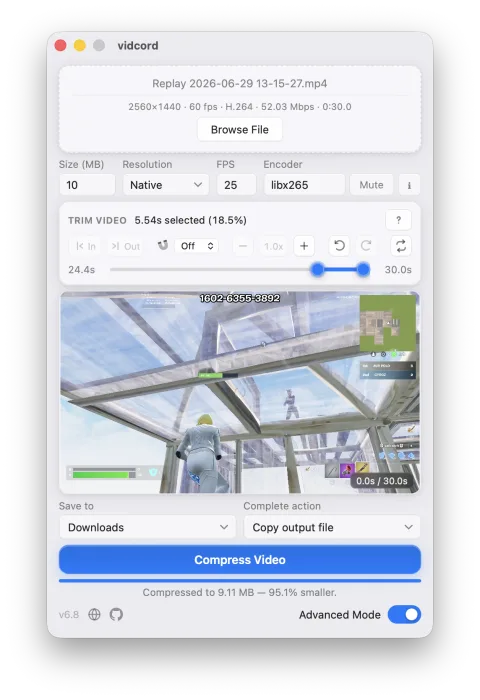
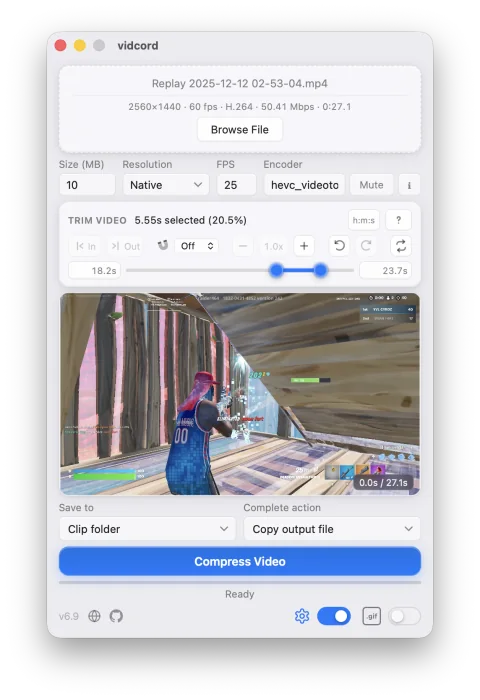
Refresh website screenshots and add GIF mode showcase

diff --git a/site/index.html b/site/index.html
@@ -106,6 +106,7 @@
             "image": [
               "https://vidcord.app/assets/window.png",
               "https://vidcord.app/assets/advancedmode.png",
+              "https://vidcord.app/assets/gifmode.png",
               "https://vidcord.app/assets/context.png",
               "https://vidcord.app/assets/finder.png",
               "https://vidcord.app/assets/file.png"
@@ -330,7 +331,7 @@
               <img
                 src="assets/window.png"
                 width="1144"
-                height="1484"
+                height="1668"
                 decoding="async"
                 alt="vidcord desktop app with video preview, trim timeline, preset picker, and compression controls"
               />
@@ -446,10 +447,50 @@
             <img
               src="assets/advancedmode.png"
               width="1144"
-              height="1484"
+              height="1668"
               loading="lazy"
               decoding="async"
               alt="vidcord advanced mode with target size, resolution, and encoder controls"
+            />
+          </picture>
+        </div>
+      </section>
+
+      <section class="detail-section detail-section-reverse" aria-label="GIF mode">
+        <div class="detail-copy">
+          <h2>Turn the best moment into a Discord-ready GIF.</h2>
+          <p>
+            GIF Mode swaps in focused controls for animated exports. Choose a Discord Free or Nitro
+            Basic size target and the motion quality you want, then let vidcord optimize the result
+            locally.
+          </p>
+          <ul>
+            <li>Focused 10 MB Free and 50 MB Nitro Basic targets.</li>
+            <li>Selectable 15, 30, or Discord-safe maximum 50 FPS output.</li>
+            <li>Automatic palette generation for cleaner color and motion.</li>
+            <li>Adaptive size retries that preserve your selected frame rate.</li>
+            <li>No audio track or unrelated video-only controls.</li>
+          </ul>
+        </div>
+        <div class="detail-image">
+          <picture>
+            <source
+              type="image/webp"
+              srcset="
+                assets/gifmode-480.webp   480w,
+                assets/gifmode-720.webp   720w,
+                assets/gifmode-960.webp   960w,
+                assets/gifmode-1144.webp 1144w
+              "
+              sizes="(max-width: 760px) calc(100vw - 36px), (max-width: 1040px) 560px, 500px"
+            />
+            <img
+              src="assets/gifmode.png"
+              width="1144"
+              height="1668"
+              loading="lazy"
+              decoding="async"
+              alt="vidcord GIF mode with Discord size targets, frame-rate control, trim timeline, and Create GIF button"
             />
           </picture>
         </div>

diff --git a/site/styles.css b/site/styles.css
@@ -712,6 +712,15 @@ main {
   height: auto;
 }
 
+.detail-section-reverse .detail-copy {
+  grid-column: 2;
+}
+
+.detail-section-reverse .detail-image {
+  grid-column: 1;
+  grid-row: 1;
+}
+
 .integration-section {
   padding-top: 46px;
   padding-bottom: 62px;
@@ -1175,6 +1184,12 @@ main {
 
   .detail-section {
     grid-template-columns: 1fr;
+  }
+
+  .detail-section-reverse .detail-copy,
+  .detail-section-reverse .detail-image {
+    grid-column: auto;
+    grid-row: auto;
   }
 
   .detail-image {

diff --git a/README.md b/README.md
@@ -169,15 +169,15 @@ first pass lands too large.
 ### Supported input formats
 
 MP4, MOV, MKV, AVI, WebM, FLV, WMV, and any other container / codec
-combination your system FFmpeg can demux. Output is always `.mp4` — H.264
-(AVC) by default, H.265 (HEVC) if you pick an `hevc_*` encoder in Advanced
-mode.
+combination your system FFmpeg can demux. Standard and Advanced mode output is
+`.mp4` — H.264 (AVC) by default or H.265 (HEVC) if you pick an `hevc_*`
+encoder. GIF Mode creates an animated `.gif`.
 
 ## Screenshots
 
-| Main window                                                                                             | Advanced mode                                                                                                              |
-| ------------------------------------------------------------------------------------------------------- | -------------------------------------------------------------------------------------------------------------------------- |
-| ![vidcord main window with trim timeline, size preset picker, and progress bar](site/assets/window.png) | ![vidcord Advanced mode: custom target size, output resolution, and FFmpeg encoder override](site/assets/advancedmode.png) |
+| Main window                                                                                             | Advanced mode                                                                                                              | GIF mode                                                                                                                |
+| ------------------------------------------------------------------------------------------------------- | -------------------------------------------------------------------------------------------------------------------------- | ----------------------------------------------------------------------------------------------------------------------- |
+| ![vidcord main window with trim timeline, size preset picker, and progress bar](site/assets/window.png) | ![vidcord Advanced mode: custom target size, output resolution, and FFmpeg encoder override](site/assets/advancedmode.png) | ![vidcord GIF mode with Discord size target, FPS picker, trim timeline, and Create GIF button](site/assets/gifmode.png) |
 
 | Output file                                                                                 | Windows context menu                                                                                            | macOS Finder                                                                                          |
 | ------------------------------------------------------------------------------------------- | --------------------------------------------------------------------------------------------------------------- | ----------------------------------------------------------------------------------------------------- |

diff --git a/CHANGELOG.md b/CHANGELOG.md
@@ -2,6 +2,10 @@
 
 ## WIP
 
+### Website
+
+- Refreshed the main and Advanced mode screenshots and added a dedicated GIF Mode showcase.
+
 ## v6.9
 
 ### Setup
